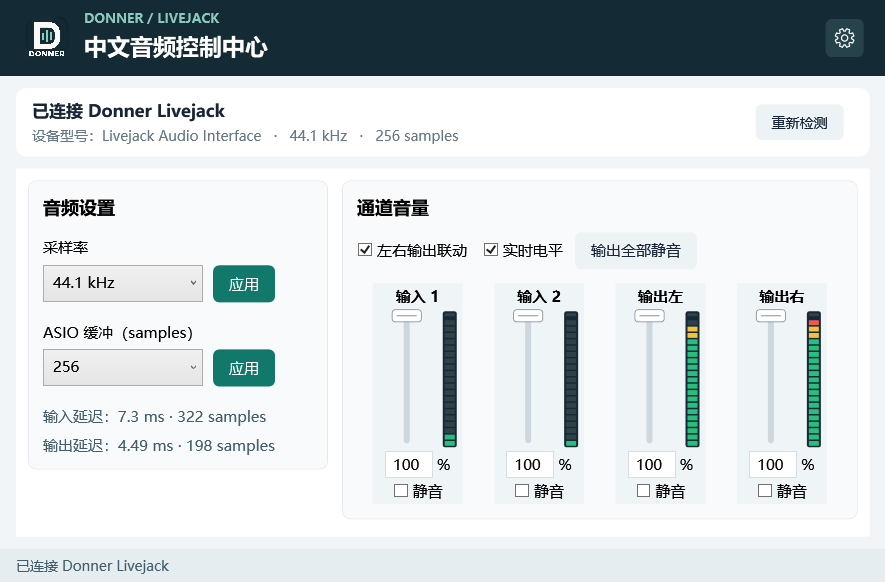
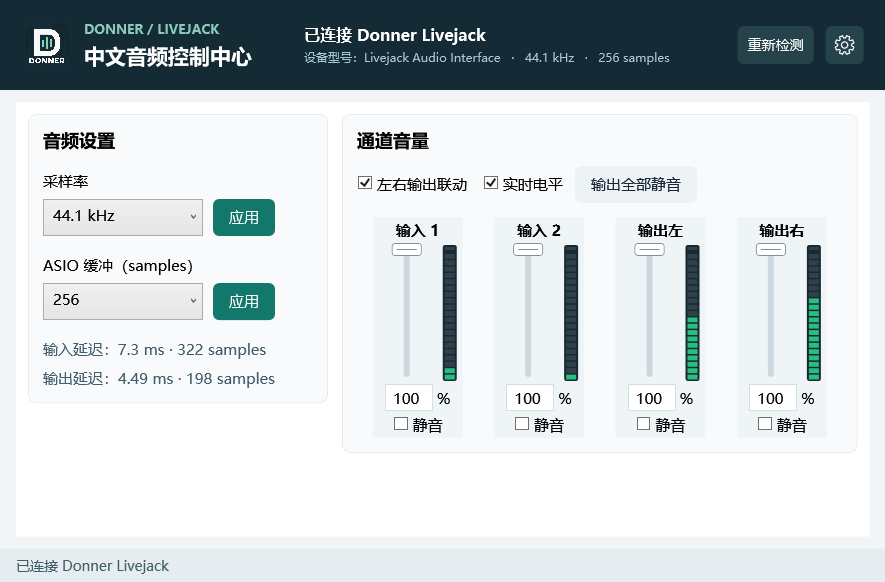
Move device status into header and add author to window title

diff --git a/src/Donner.Panel/MainWindow.xaml b/src/Donner.Panel/MainWindow.xaml
@@ -1,9 +1,15 @@
 <Window x:Class="Donner.Panel.MainWindow" xmlns="http://schemas.microsoft.com/winfx/2006/xaml/presentation" xmlns:x="http://schemas.microsoft.com/winfx/2006/xaml" xmlns:local="clr-namespace:Donner.Panel" Title="Donner 中文控制面板" Icon="Assets/donner.ico" Width="900" Height="620" MinWidth="840" MinHeight="600" Background="#F2F5F7" FontFamily="Microsoft YaHei UI" FontSize="14" Foreground="{StaticResource Ink}" WindowStartupLocation="CenterScreen">
- <Grid Background="#F2F5F7"><Grid.RowDefinitions><RowDefinition Height="76"/><RowDefinition Height="*"/><RowDefinition Height="Auto"/></Grid.RowDefinitions>
-  <Border Background="#142A34"><Grid Margin="22,10"><Grid.ColumnDefinitions><ColumnDefinition/><ColumnDefinition Width="Auto"/></Grid.ColumnDefinitions><StackPanel Orientation="Horizontal"><Image Source="Assets/donner-logo.png" Width="50" Height="50" Margin="0,0,12,0"/><StackPanel><TextBlock Text="DONNER / LIVEJACK" FontSize="13" Foreground="#89CABB" FontWeight="SemiBold"/><TextBlock Text="中文音频控制中心" FontSize="23" FontWeight="SemiBold" Foreground="White" Margin="0,5,0,0"/></StackPanel></StackPanel><Button Grid.Column="1" Content="&#xE713;" FontFamily="Segoe MDL2 Assets" FontSize="20" Width="38" Height="38" Padding="8" Margin="0" Background="#26424B" Foreground="White" VerticalAlignment="Center" ToolTip="设置与其他页面" Click="GearClick"><Button.ContextMenu><ContextMenu x:Name="PagesMenu"><MenuItem Header="设备控制" Tag="0" Click="PageClick"/><Separator/><MenuItem Header="配置预设" Tag="1" Click="PageClick"/><MenuItem Header="设备诊断" Tag="2" Click="PageClick"/><MenuItem Header="应用设置" Tag="3" Click="PageClick"/><MenuItem Header="面板说明" Tag="4" Click="PageClick"/><Separator/><MenuItem Header="关于" Tag="5" Click="PageClick"/><MenuItem Header="驱动设置" Tag="6" Click="PageClick"/></ContextMenu></Button.ContextMenu></Button></Grid></Border>
-  <Grid Grid.Row="1" Margin="16,12"><Grid.RowDefinitions><RowDefinition Height="Auto"/><RowDefinition Height="*"/></Grid.RowDefinitions>
-   <Border Background="White" CornerRadius="10" Padding="16,12" Margin="0,0,0,12"><Grid><Grid.ColumnDefinitions><ColumnDefinition/><ColumnDefinition Width="Auto"/></Grid.ColumnDefinitions><StackPanel><TextBlock x:Name="DeviceStatus" Text="正在检测设备…" FontSize="17" FontWeight="SemiBold"/><TextBlock x:Name="DeviceSubtitle" Text="设置不会在启动时自动应用" Foreground="#657887" Margin="0,5,0,0"/></StackPanel><StackPanel Grid.Column="1" Orientation="Horizontal" VerticalAlignment="Center"><Button x:Name="DetectButton" Content="重新检测" Click="DetectClick"/></StackPanel></Grid></Border>
-   <TabControl x:Name="Pages" SelectedIndex="0" Grid.Row="1" BorderThickness="0" Background="White"><TabControl.Template><ControlTemplate TargetType="TabControl"><Border Background="{TemplateBinding Background}"><ContentPresenter x:Name="PART_SelectedContentHost" ContentSource="SelectedContent"/></Border></ControlTemplate></TabControl.Template>
+ <Grid Background="#F2F5F7"><Grid.RowDefinitions><RowDefinition Height="90"/><RowDefinition Height="*"/><RowDefinition Height="Auto"/></Grid.RowDefinitions>
+  <Border Background="#142A34"><Grid Margin="22,10">
+   <Grid.ColumnDefinitions><ColumnDefinition Width="270"/><ColumnDefinition/><ColumnDefinition Width="Auto"/></Grid.ColumnDefinitions>
+   <StackPanel Orientation="Horizontal" VerticalAlignment="Center"><Image Source="Assets/donner-logo.png" Width="50" Height="50" Margin="0,0,12,0"/><StackPanel VerticalAlignment="Center"><TextBlock Text="DONNER / LIVEJACK" FontSize="13" Foreground="#89CABB" FontWeight="SemiBold"/><TextBlock Text="中文音频控制中心" FontSize="21" FontWeight="SemiBold" Foreground="White" Margin="0,5,0,0"/></StackPanel></StackPanel>
+   <StackPanel Grid.Column="1" Margin="12,0,16,0" VerticalAlignment="Center"><TextBlock x:Name="DeviceStatus" Text="正在检测设备…" FontSize="16" FontWeight="SemiBold" Foreground="White" TextWrapping="Wrap"/><TextBlock x:Name="DeviceSubtitle" Text="" Foreground="#A7C6D1" FontSize="12" TextWrapping="Wrap" Margin="0,5,0,0"/></StackPanel>
+   <StackPanel Grid.Column="2" Orientation="Horizontal" VerticalAlignment="Center"><Button x:Name="DetectButton" Content="重新检测" Click="DetectClick" Background="#26424B" Foreground="White" Margin="0,0,12,0" Padding="10,8"/>
+    <Button Content="&#xE713;" FontFamily="Segoe MDL2 Assets" FontSize="20" Width="38" Height="38" Padding="8" Margin="0" Background="#26424B" Foreground="White" ToolTip="设置与其他页面" Click="GearClick"><Button.ContextMenu><ContextMenu x:Name="PagesMenu"><MenuItem Header="设备控制" Tag="0" Click="PageClick"/><Separator/><MenuItem Header="配置预设" Tag="1" Click="PageClick"/><MenuItem Header="设备诊断" Tag="2" Click="PageClick"/><MenuItem Header="应用设置" Tag="3" Click="PageClick"/><MenuItem Header="面板说明" Tag="4" Click="PageClick"/><Separator/><MenuItem Header="关于" Tag="5" Click="PageClick"/><MenuItem Header="驱动设置" Tag="6" Click="PageClick"/></ContextMenu></Button.ContextMenu></Button>
+   </StackPanel>
+  </Grid></Border>
+  <Grid Grid.Row="1" Margin="16,12">
+   <TabControl x:Name="Pages" SelectedIndex="0" BorderThickness="0" Background="White"><TabControl.Template><ControlTemplate TargetType="TabControl"><Border Background="{TemplateBinding Background}"><ContentPresenter x:Name="PART_SelectedContentHost" ContentSource="SelectedContent"/></Border></ControlTemplate></TabControl.Template>
     <TabItem Header="设备控制"><ScrollViewer VerticalScrollBarVisibility="Auto" HorizontalScrollBarVisibility="Disabled"><Grid Margin="12,12"><Grid.ColumnDefinitions><ColumnDefinition Width="300"/><ColumnDefinition Width="14"/><ColumnDefinition/></Grid.ColumnDefinitions>
      <Border Background="#F8FAFB" BorderBrush="#E3E9ED" BorderThickness="1" CornerRadius="8" Padding="14" VerticalAlignment="Top"><StackPanel>
       <TextBlock x:Name="AudioTitle" Text="音频设置" FontSize="18" FontWeight="SemiBold"/>

diff --git a/src/Donner.Panel/MainWindow.xaml.cs b/src/Donner.Panel/MainWindow.xaml.cs
@@ -53,7 +53,7 @@ public partial class MainWindow : Window
         StreamModeCombo.ItemsSource=new[]{new DriverOption(1,"按需开启"),new DriverOption(2,"持续开启")};
         OutputFormatCombo.SelectionChanged+=(_,_)=>{if(!rendering&&OutputFormatCombo.SelectedItem is DriverOption option)selectedFormat=option.Value;};
         StreamModeCombo.SelectionChanged+=(_,_)=>{if(!rendering&&StreamModeCombo.SelectedItem is DriverOption option)selectedStreamMode=option.Value;};
-        Title="Donner 中文控制面板 · v1.20";
+        Title="Donner 中文控制面板 · v1.21 · topsai (范斯特洛夫斯基)";
         AboutVersion.Text="版本 "+typeof(MainWindow).Assembly.GetName().Version?.ToString(3);
         var smoke=Array.IndexOf(args,"--smoke");
         smokeDirectory=smoke>=0 && smoke+1<args.Length?Path.GetFullPath(args[smoke+1]):null;
@@ -247,7 +247,7 @@ public partial class MainWindow : Window
             try
             {
                 Directory.CreateDirectory(reconnectCheckDirectory);
-                File.WriteAllText(Path.Combine(reconnectCheckDirectory,"state.json"),JsonSerializer.Serialize(new {Version="1.20",ProcessId=Environment.ProcessId,Updated=DateTimeOffset.Now,d.Connected,d.Demo,d.Status,d.SampleRate,d.BufferSize,DeviceChanges=deviceChanges,NotificationRegistered=notifications is not null},new JsonSerializerOptions {WriteIndented=true}));
+                File.WriteAllText(Path.Combine(reconnectCheckDirectory,"state.json"),JsonSerializer.Serialize(new {Version="1.21",ProcessId=Environment.ProcessId,Updated=DateTimeOffset.Now,d.Connected,d.Demo,d.Status,d.SampleRate,d.BufferSize,DeviceChanges=deviceChanges,NotificationRegistered=notifications is not null},new JsonSerializerOptions {WriteIndented=true}));
             }
             catch(IOException){}
         }

diff --git a/README.md b/README.md
@@ -10,7 +10,7 @@
 
 ## 下载与安装
 
-推荐在 [Releases](https://github.com/topsai/donner-livejack-control-panel/releases/latest) 下载 `DonnerControlPanel-v1.20-Setup-win-x64.exe`，双击安装。安装包自带 .NET 运行时和原厂 USB 音频驱动，无需联网或另外下载驱动。
+推荐在 [Releases](https://github.com/topsai/donner-livejack-control-panel/releases/latest) 下载 `DonnerControlPanel-v1.21-Setup-win-x64.exe`，双击安装。安装包自带 .NET 运行时和原厂 USB 音频驱动，无需联网或另外下载驱动。
 
 - 已有兼容的原厂驱动：自动跳过驱动安装。
 - 缺少兼容驱动：先打开内置的原厂驱动安装向导。允许 Windows 管理员授权并完成向导后，安装程序会检查驱动，再安装中文面板。
@@ -60,7 +60,7 @@
 .\build-installer.ps1 -DriverInstaller 'C:\drivers\Donner_UsbAudio_v5.0.0_2021-03-29_setup.exe'
 ```
 
[2 lines of base64/hex data omitted]
 
 安装脚本的简体中文语言文件来自 [Inno Setup 仓库](https://github.com/jrsoftware/issrc/blob/main/Files/Languages/ChineseSimplified.isl)，保留作者署名。
 
